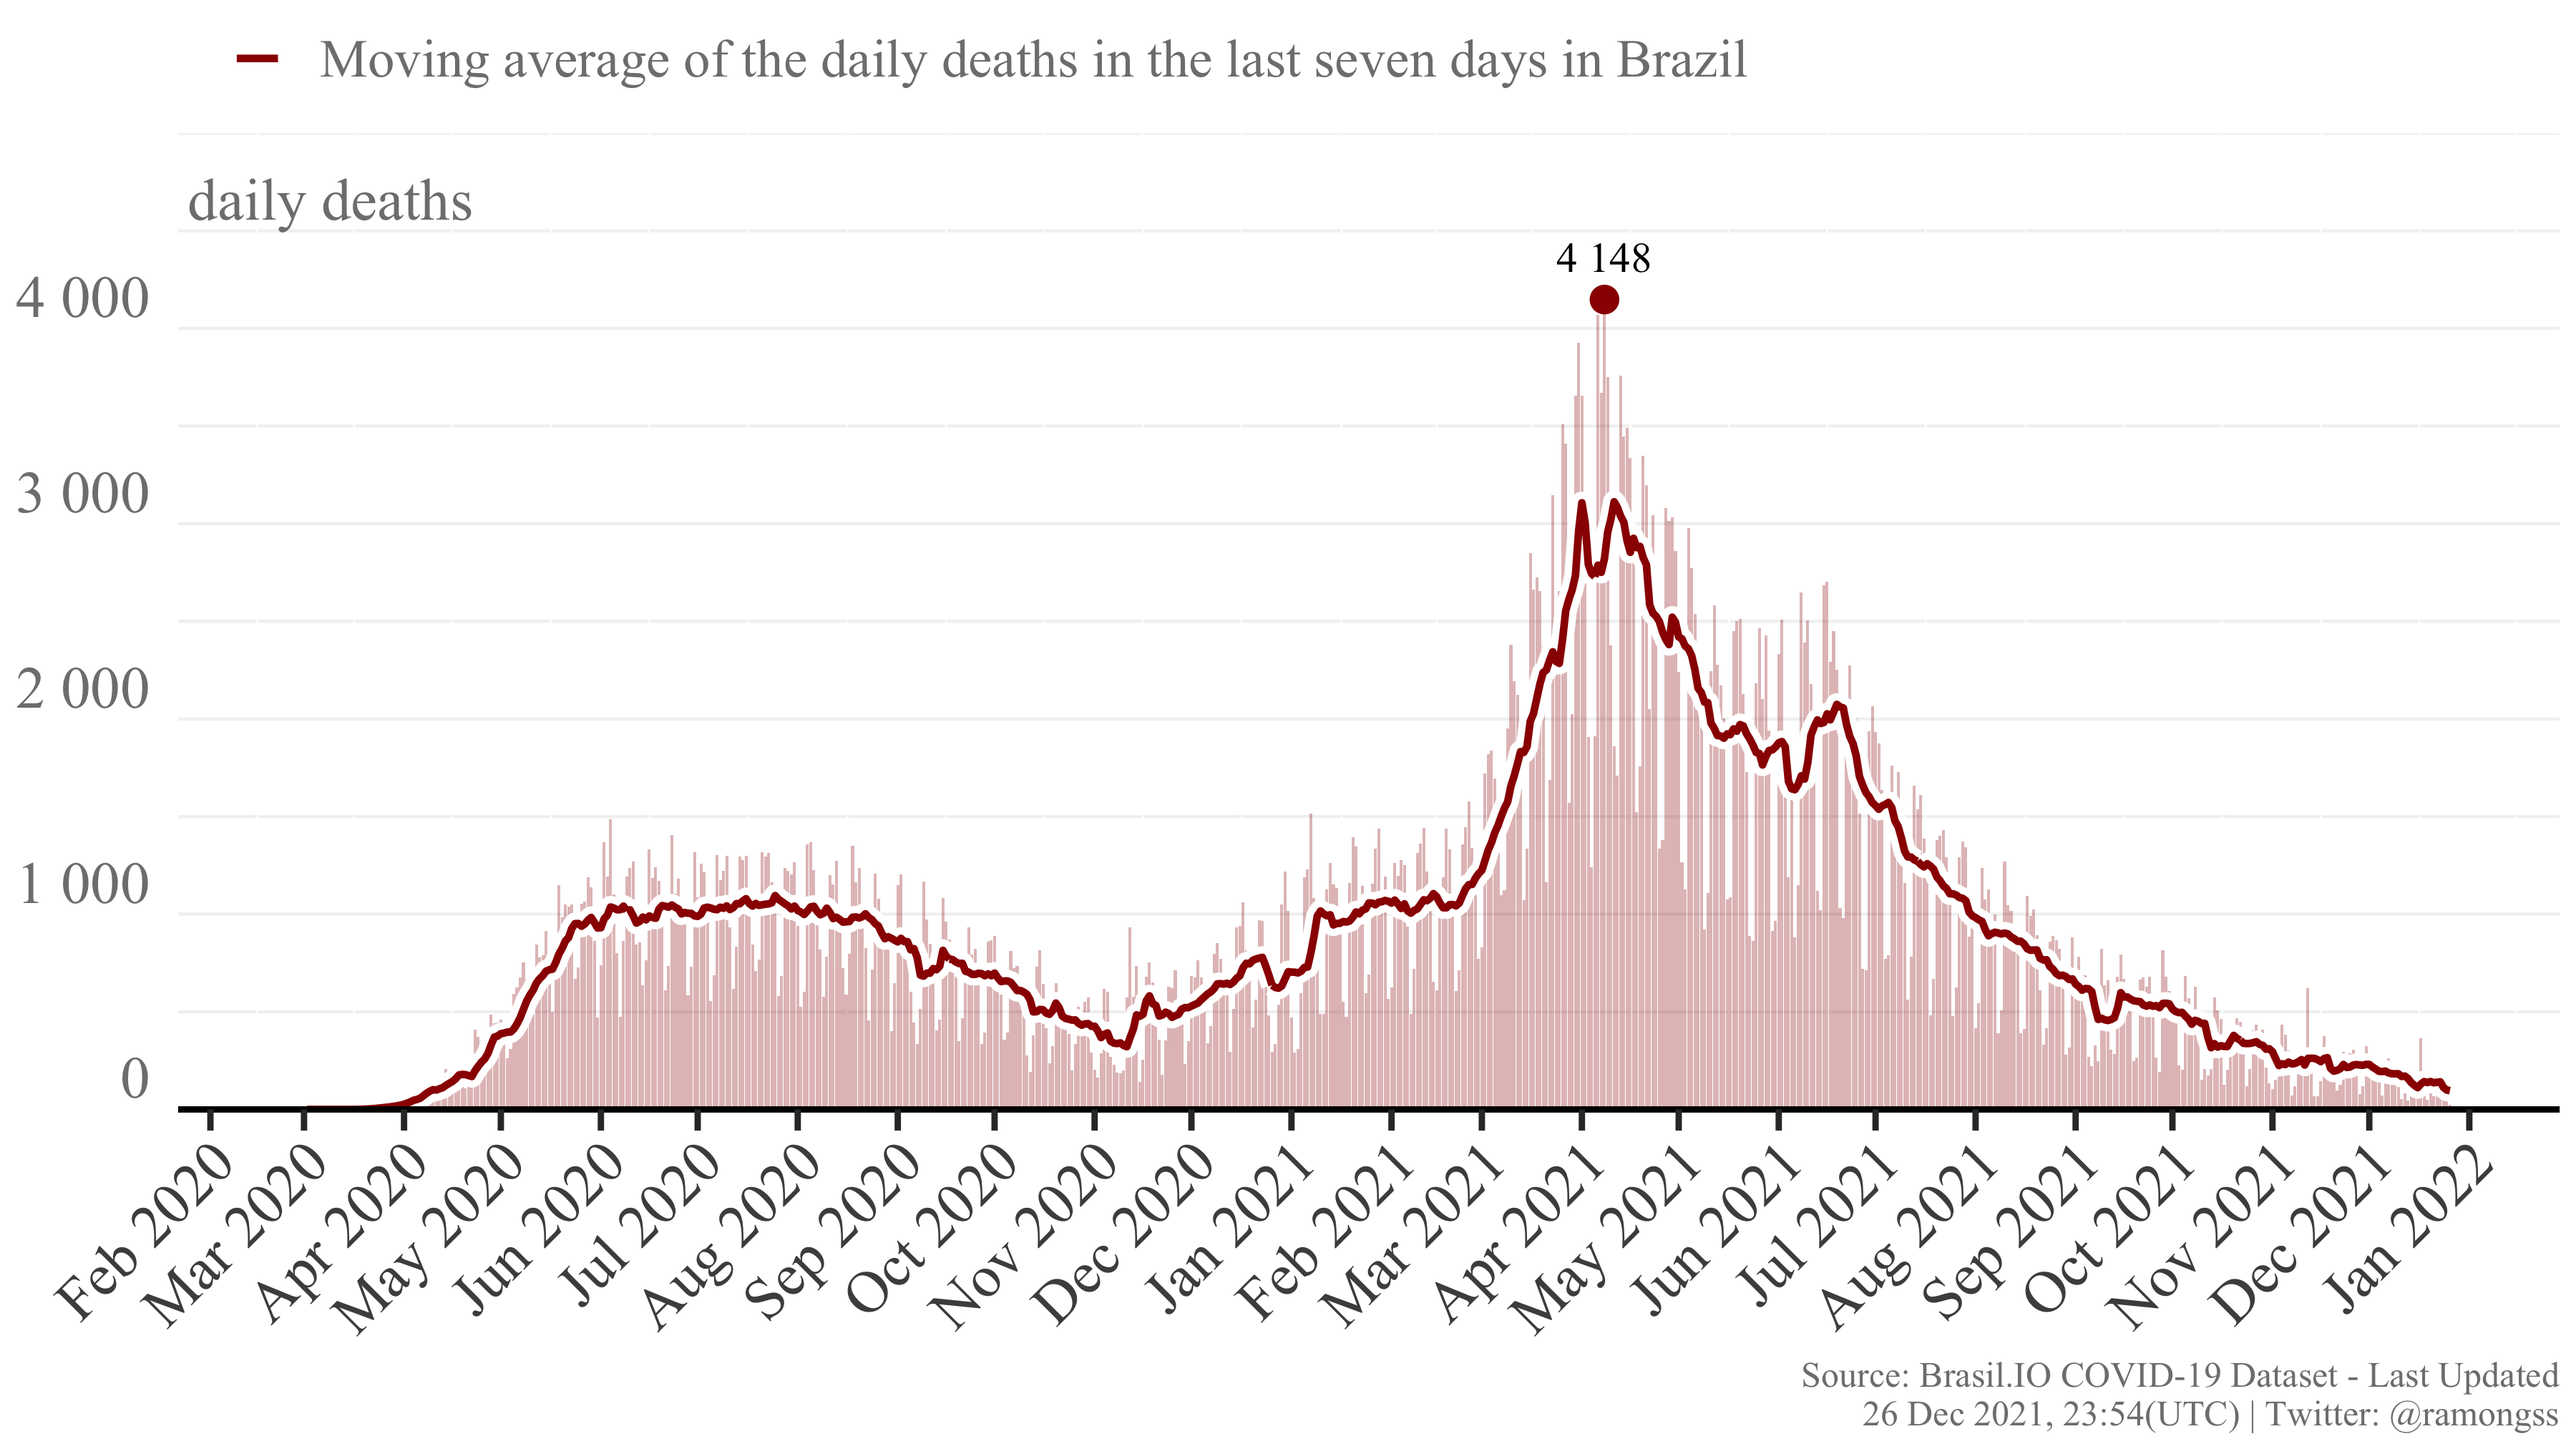
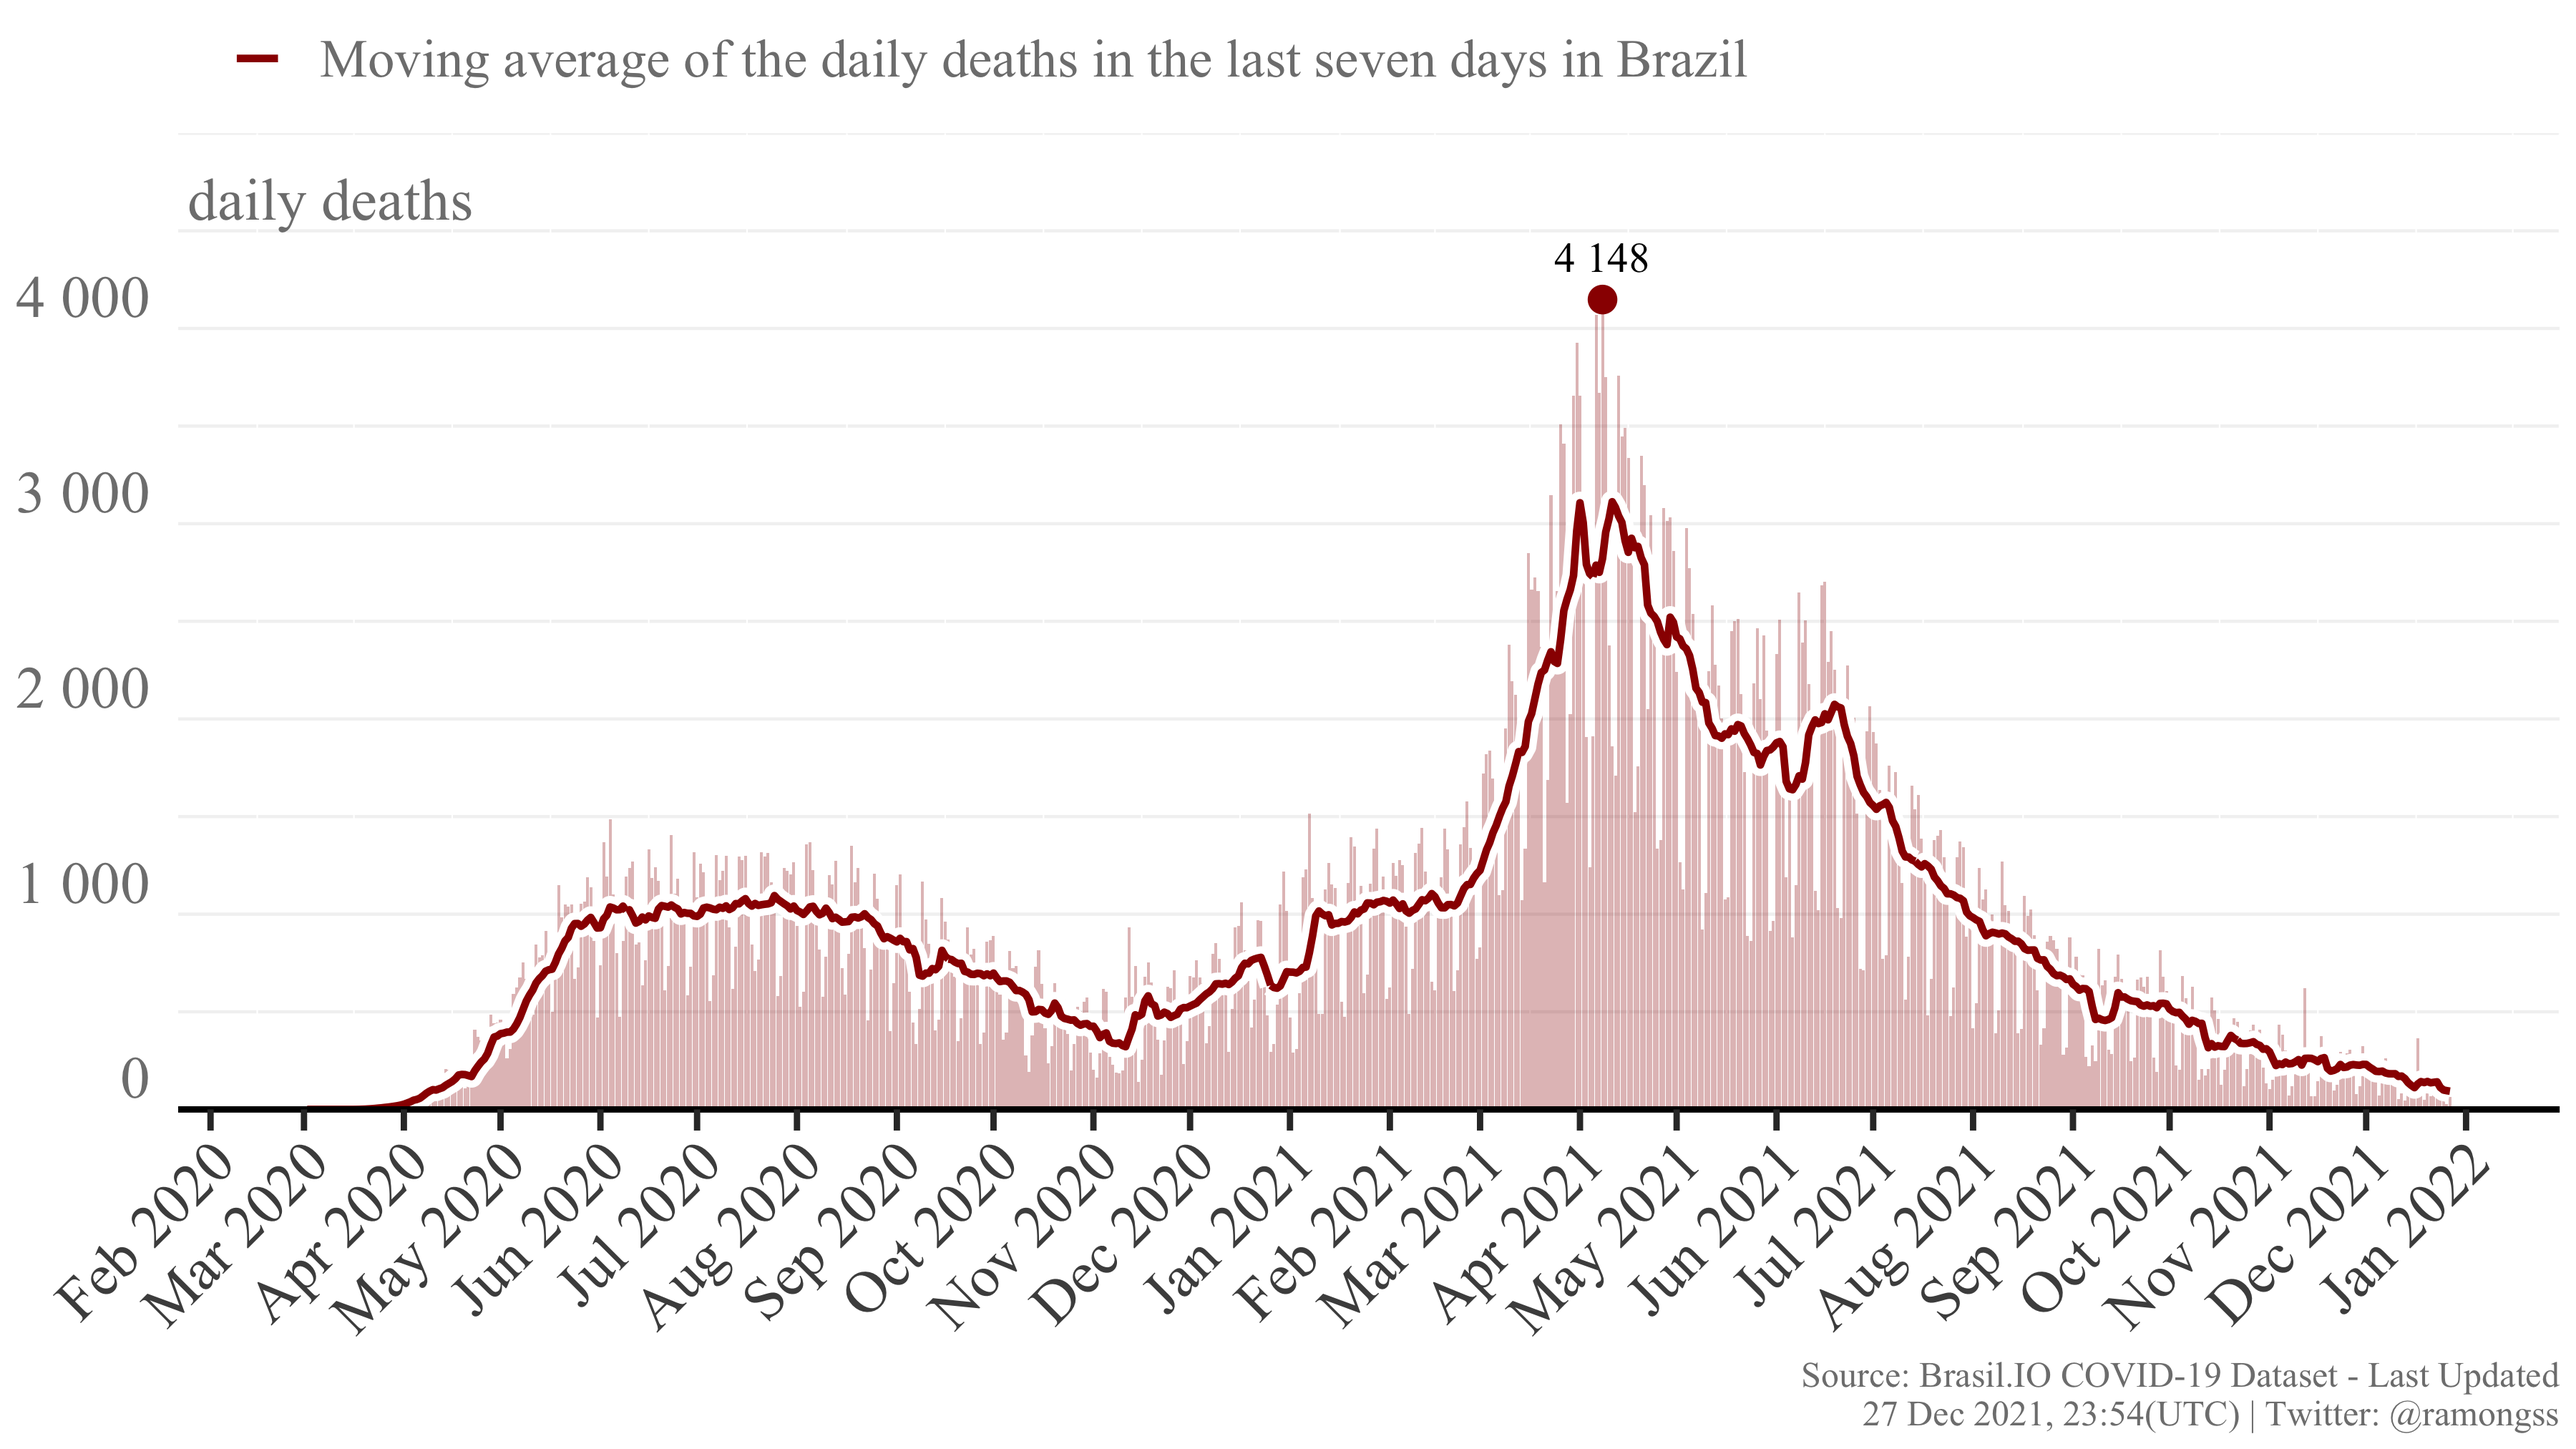
Re-build README.Rmd

Changed region(s): [[0.1867, 0.28, 0.9644, 0.9022], [0.5911, 0.1556, 0.6533, 0.1867], [0.2489, 0.8089, 0.3111, 0.84]]

diff --git a/README.md b/README.md
@@ -27,8 +27,8 @@ download_brasilio_table <- function(dataset = "covid19", table_name){
 
 ## COVID-19 Confirmed cases
 
-Currently, Brazil has a total of **22,243,266** confirmed cases at **26
-Dec, 2021**, with **4,927** new confirmed cases. The daily maximum
+Currently, Brazil has a total of **22,250,210** confirmed cases at **27
+Dec, 2021**, with **6,909** new confirmed cases. The daily maximum
 incidence was **124,878** confirmed cases at **18 Sep, 2021**. Here
 follows the Figure showing the confirmed case incidence as the bars, and
 the line as the moving average of the last 7 days.
@@ -37,8 +37,8 @@ the line as the moving average of the last 7 days.
 
 ## COVID-19 Deaths
 
-Currently, Brazil has a total of **618,732** deaths at **26 Dec, 2021**,
-with **25** new deaths. The daily maximum deaths incidence was **4,148**
+Currently, Brazil has a total of **618,797** deaths at **27 Dec, 2021**,
+with **64** new deaths. The daily maximum deaths incidence was **4,148**
 deaths at **08 Apr, 2021**. Here follows the Figure showing the deaths
 incidence as the bars, and the line as the moving average of the last 7
 days.
@@ -49,4 +49,4 @@ days.
 
 This page is daily updated automatically using Github Actions.
 
-*Last update: 26 Dec 2021, 23:54 (UTC).*
+*Last update: 27 Dec 2021, 23:54 (UTC).*
